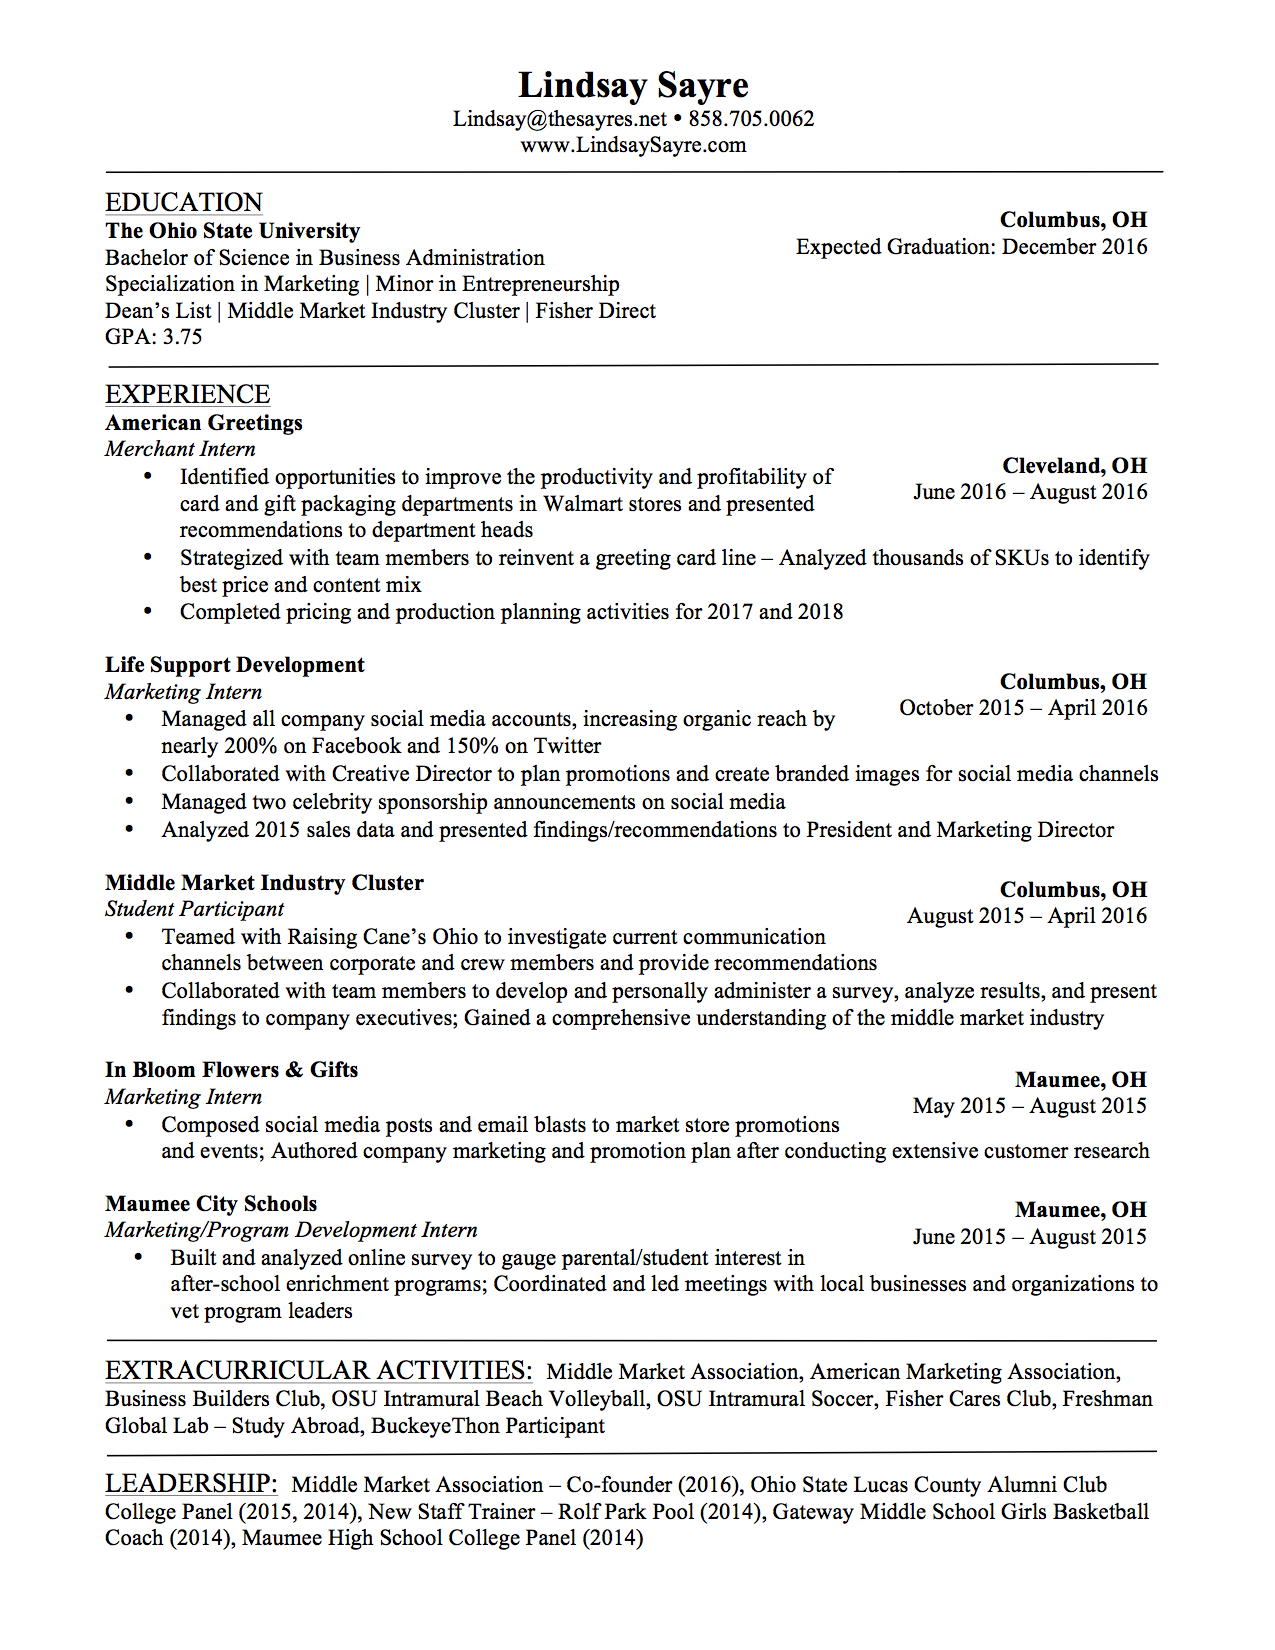
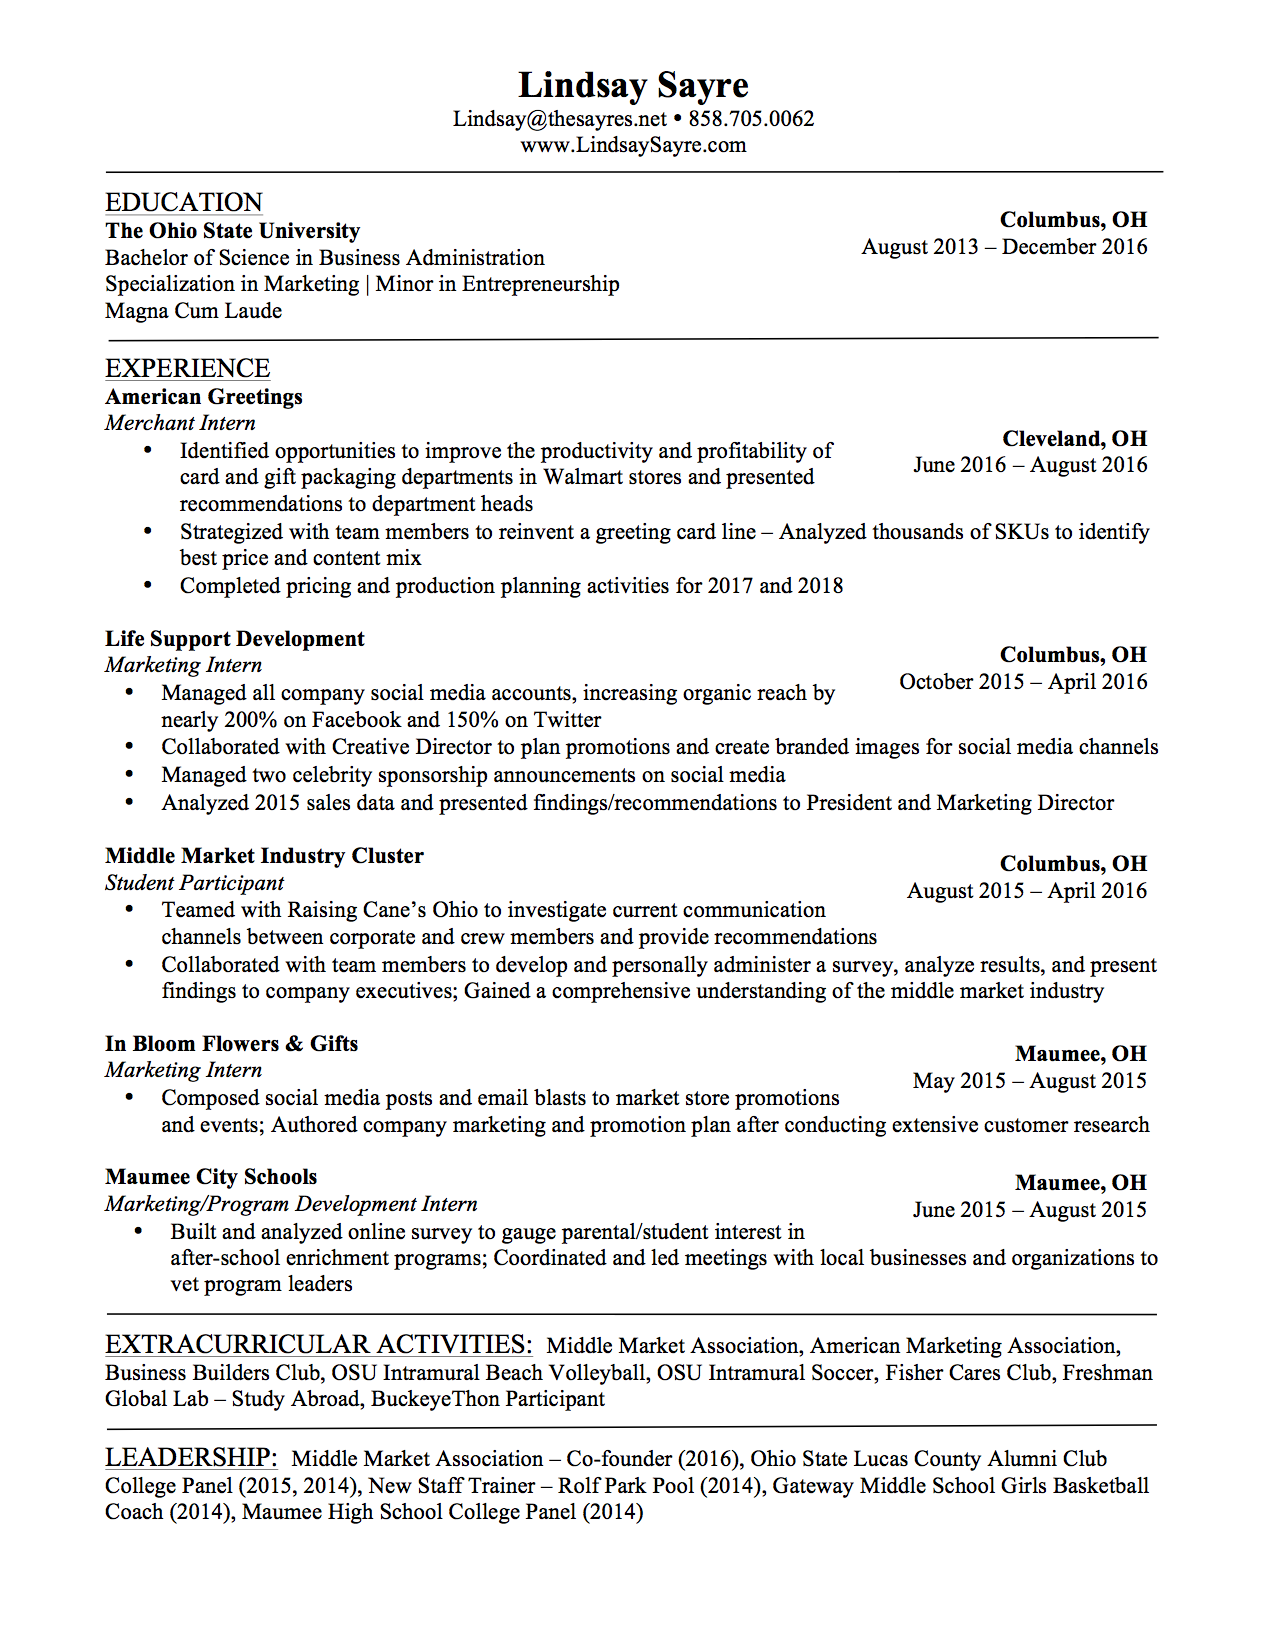
updated resume and as graduate

Changed region(s): [[0.0612, 0.1855, 0.9176, 0.9582], [0.6424, 0.1236, 0.7647, 0.1545]]

diff --git a/javascript/sampleText.js b/javascript/sampleText.js
@@ -1,5 +1,5 @@
 module.exports = {
-  summary: 'I’m Lindsay, an Ohio State University student with a passion for marketing and entrepreneurship. I have worked at a startup, a multi-billion dollar corporation, and studied everything in between. My experience spans across a wide range of products and services, so I specialize in jumping in with both feet and getting up to speed quickly. I love a challenge and thrive in a dynamic work environment where I get to wear many hats.',
+  summary: 'I’m Lindsay, an Ohio State University graduate with a passion for marketing and entrepreneurship. I have worked at a startup, a multi-billion dollar corporation, and studied everything in between. My experience spans across a wide range of products and services, so I specialize in jumping in with both feet and getting up to speed quickly. I love a challenge and thrive in a dynamic work environment where I get to wear many hats.',
   summary_1: 'I have experience in social media, digital marketing, and data analysis. I managed all social media channels at a beverage startup called Life Support. With a focus on growth, I developed and implemented a strategy, created content, and engaged with customers. I have also worked at American Greetings, where I focused on analyzing customer data and past sales metrics to identify opportunities to improve productivity and create future retail strategies.',
   summary_2: 'When I’m not working I’m probably on the beach volleyball court, whipping up something in the kitchen, or boarding a plane for my next adventure.',
   project1: 'A handspun framework in the style of Rails.',
